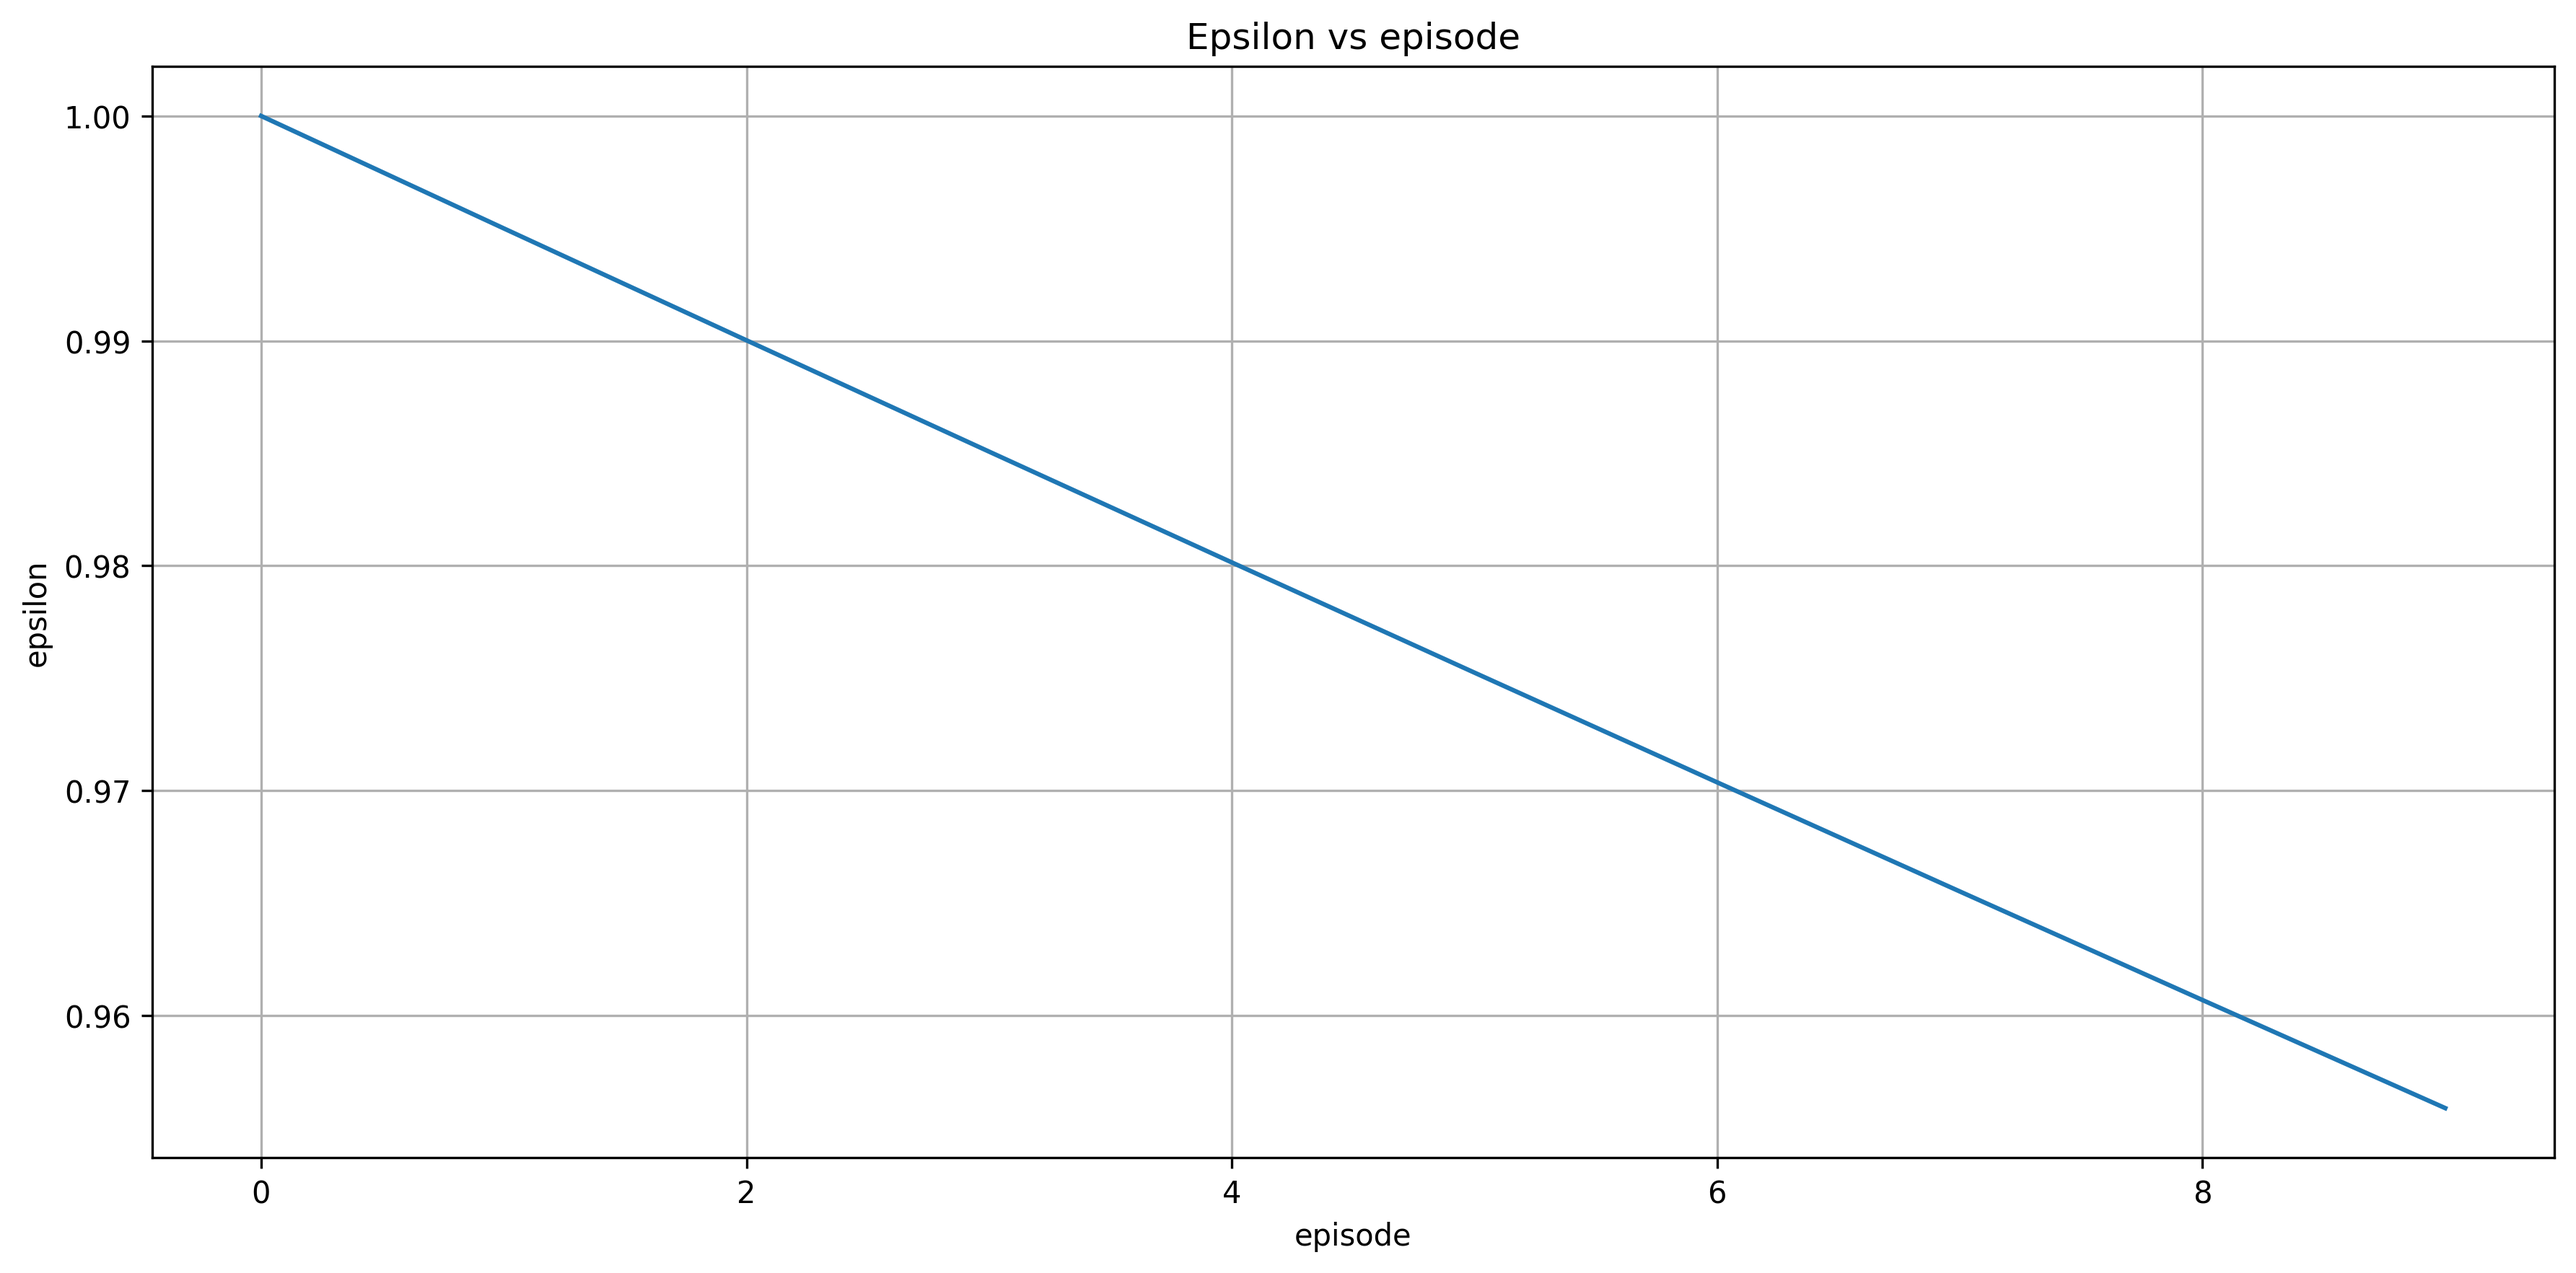
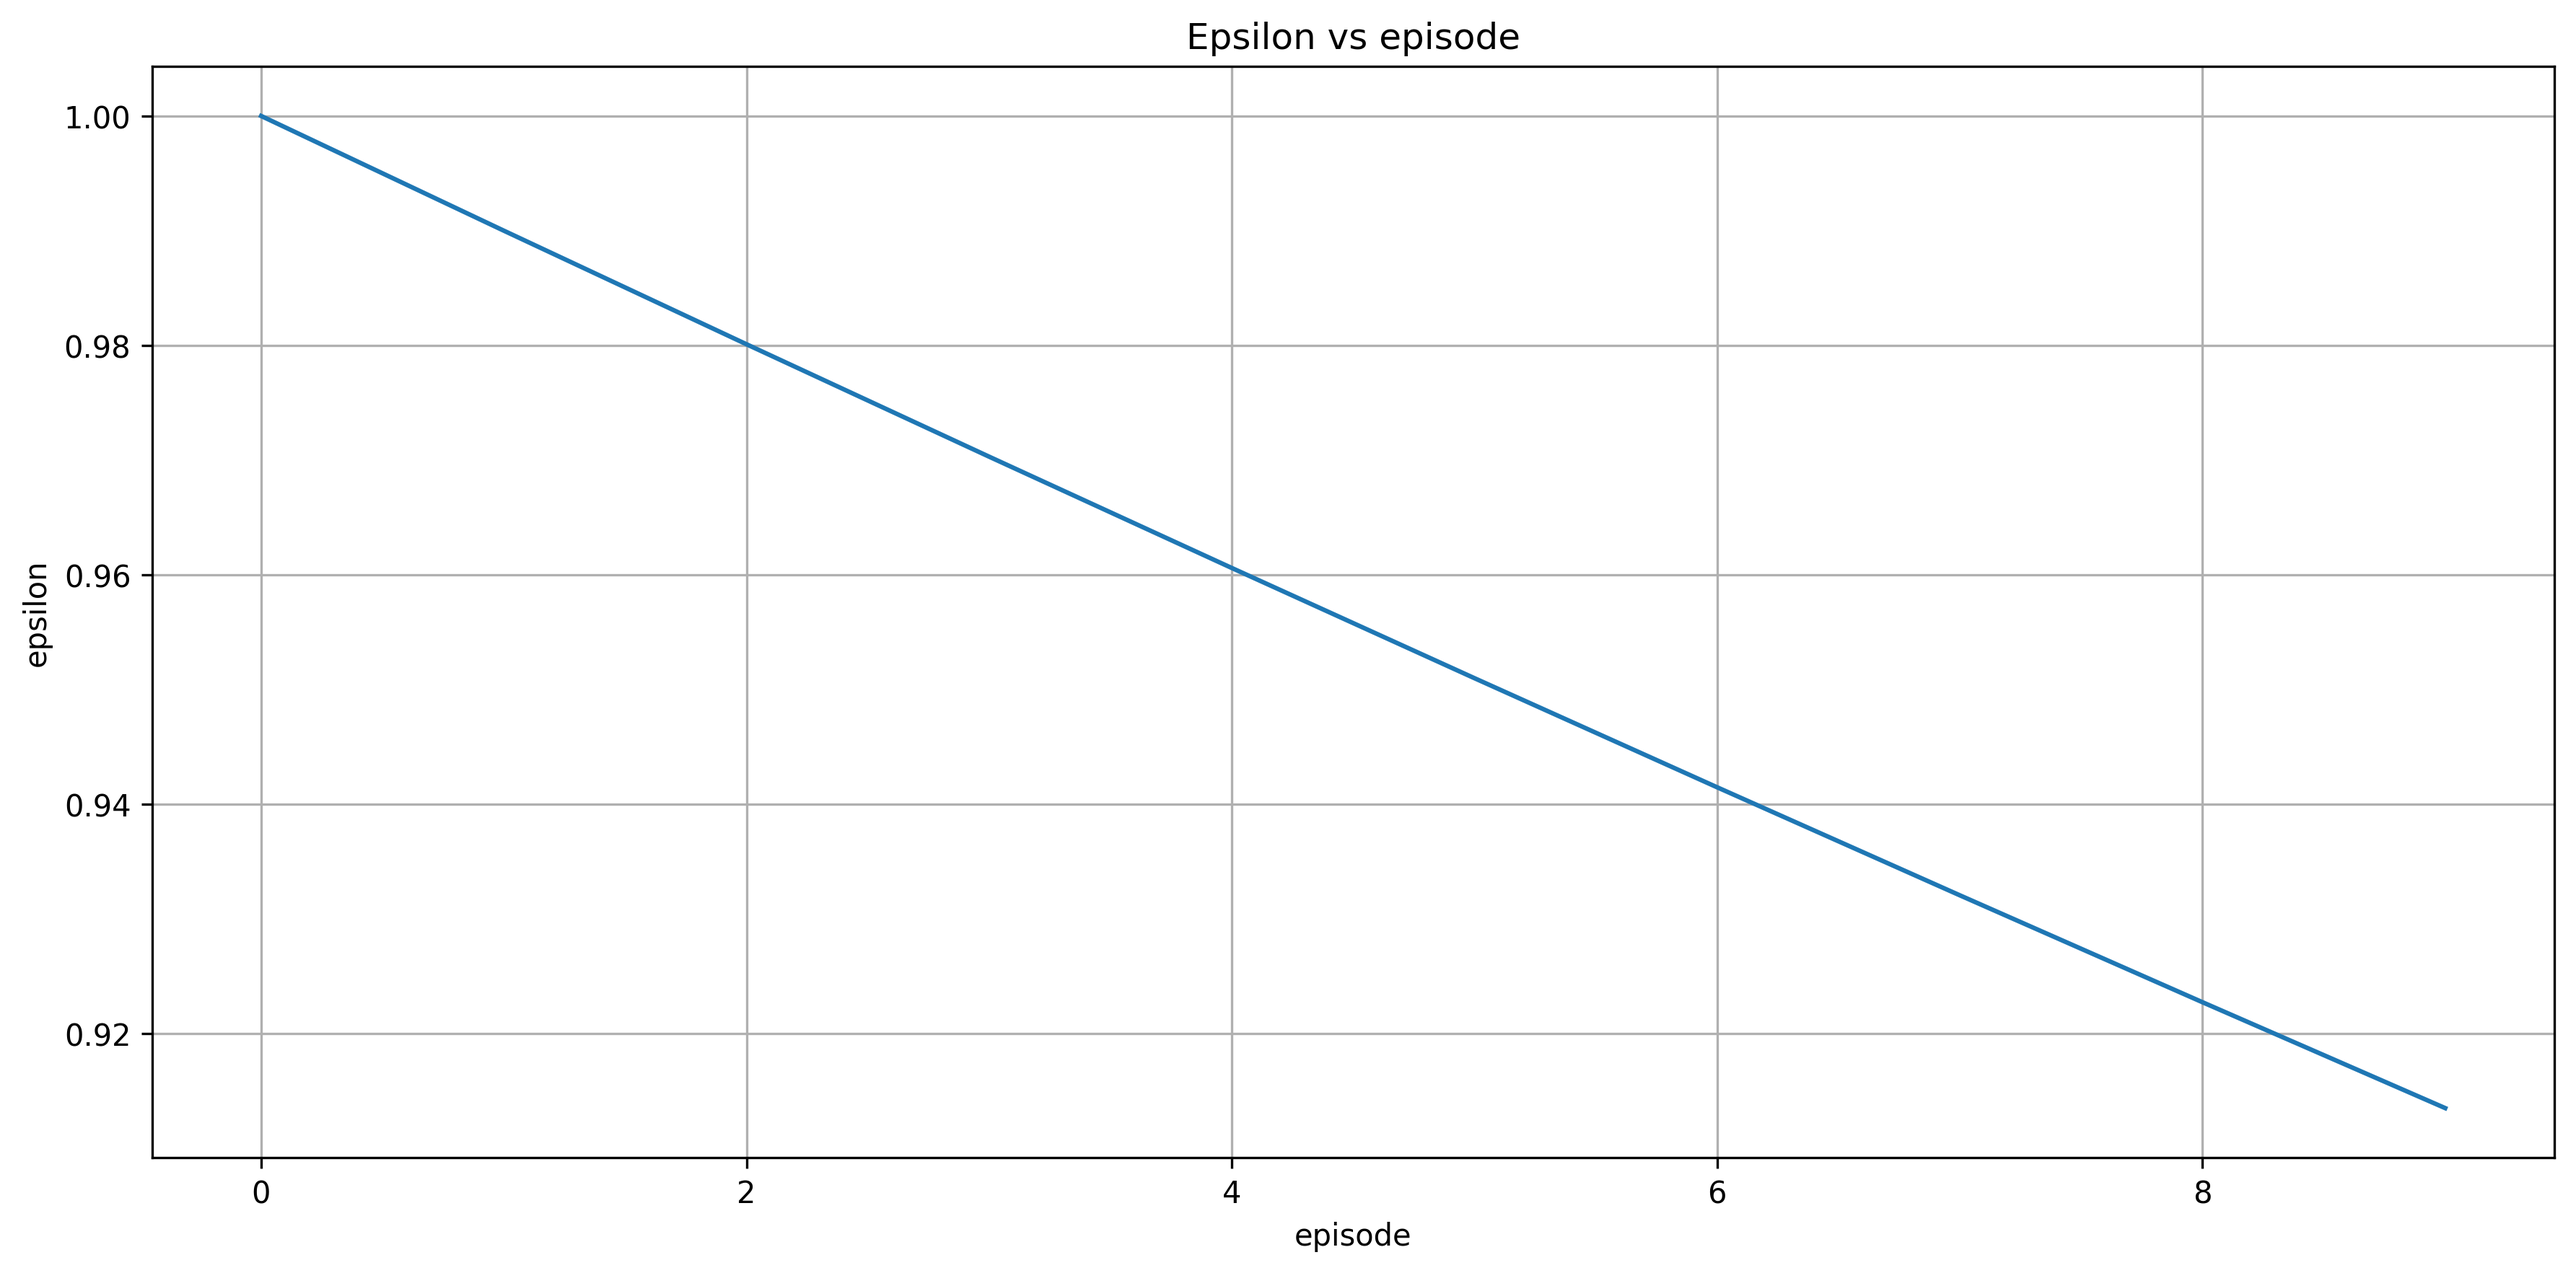
Emissions fini Mean wait update Can run on GPU

diff --git a/simauto/test.py b/simauto/test.py
@@ -11,12 +11,12 @@ def state_tensor(obs):
         obs["pressure"].astype(np.float32),
         obs["nearest"].astype(np.float32),
         #np.array(obs["lights"], dtype=np.float32)
-    ]))
+    ])).to(device)
 
 class DQNAgent:
     def __init__(self, input_dim, output_dim, gamma=0.99, epsilon=1.0, lr=0.001):
-        self.q_net = DeepQNetwork(input_dim, output_dim)
-        self.target_net = DeepQNetwork(input_dim, output_dim)
+        self.q_net = DeepQNetwork(input_dim, output_dim).to(device)
+        self.target_net = DeepQNetwork(input_dim, output_dim).to(device)
         self.optimizer = optim.Adam(self.q_net.parameters(), lr=lr)
         self.gamma = gamma
         self.epsilon = epsilon
@@ -38,8 +38,9 @@ class DQNAgent:
         T.save(self.q_net.state_dict(), path)
 
     def load(self, path):
-        self.q_net.load_state_dict(T.load(path))
+        self.q_net.load_state_dict(T.load(path, map_location=device))
 
+device = T.device("cuda" if T.cuda.is_available() else "cpu")
 env = gym.make("Intersection-v0", render_mode=None, step_length=6.0)
 input_dim = 4 + 4 #+ 6
 output_dim = 6
@@ -56,7 +57,7 @@ episode_epsilons = []
 episode_mean_wait = []
 episode_emissions = []
 total_steps = 0
-n_episode = 100
+n_episode = 1000
 for episode in range(n_episode):
     obs, _ = env.reset()
     state = state_tensor(obs)
@@ -77,17 +78,18 @@ for episode in range(n_episode):
         # Train from buffer
         if len(agent.buffer.buffer) > BATCH_SIZE:
             states, actions, rewards, next_states, dones = agent.buffer.sample(BATCH_SIZE)
-            states = T.FloatTensor(states)
-            next_states = T.FloatTensor(next_states)
+            states = T.FloatTensor(states).to(device)
+            next_states = T.FloatTensor(next_states).to(device)
 
             # DQN Loss Calculation
             q_values = agent.q_net(states)
             next_q_values = agent.target_net(next_states).max(1)[0].detach()
-            rewards_tensor = T.FloatTensor(rewards)
+            rewards_tensor = T.FloatTensor(rewards).to(device)
             dones_tensor = T.FloatTensor(dones)
             targets = rewards_tensor + (1 - dones_tensor) * agent.gamma * next_q_values
+            actions_tensor = T.LongTensor(actions).to(device)
 
-            loss = agent.q_net.loss(q_values.gather(1, T.LongTensor(actions).unsqueeze(1)), targets.unsqueeze(1))
+            loss = agent.q_net.loss(q_values.gather(1, actions_tensor.unsqueeze(1)), targets.unsqueeze(1))
             agent.optimizer.zero_grad()
             loss.backward()
             agent.optimizer.step()
@@ -99,16 +101,15 @@ for episode in range(n_episode):
 
 
     #Calculate mean wait for the episode
-    # sum = 0
-    # mean_waits = env.unwrapped.mean_waits
-    # for w in mean_waits:
-    #     sum += w
-    # mean_wait = sum/len(mean_waits)
-    # mean_wait = mean_waits[-1]
+    sum = 0
+    mean_waits = env.unwrapped.mean_waits
+    for w in mean_waits:
+        sum += w
+    mean_wait = sum/len(mean_waits)
 
     episode_rewards.append(total_reward)
     episode_epsilons.append(agent.epsilon)
-    # episode_mean_wait.append(mean_wait)
+    episode_mean_wait.append(mean_wait)
     episode_emissions.append(env.unwrapped.sim.emissions)
     print(f"Episode {episode}, Reward: {total_reward:.2f}, Epsilon: {agent.epsilon:.2f}")
     agent.epsilon = max(MIN_EPSILON, agent.epsilon * EPSILON_DECAY)
@@ -120,6 +121,6 @@ agent.save(path)
 episodes = [[i] for i in range(n_episode)]
 plot_graph(episodes, episode_rewards, "reward-episode.png", "Reward vs episode", "episode", "reward")
 plot_graph(episodes, episode_epsilons, "epsilon-episode.png", "Epsilon vs episode", "episode", "epsilon")
-# plot_graph(episodes, episode_mean_wait, "mean_wait-episode.png", "Mean wait vs episode", "episode", "mean wait")
+plot_graph(episodes, episode_mean_wait, "mean_wait-episode.png", "Mean wait vs episode", "episode", "mean wait")
 plot_graph(episodes, episode_emissions, "emissions-episode.png", "Emissions vs episode", "episode", "emissions")
 env.close()

diff --git a/simauto/sim.py b/simauto/sim.py
@@ -395,6 +395,7 @@ class CarRecord:
 
     def step(self, obstacle: Optional[tuple[float, float]], delta_time: float):
         previous_speed = self.speed
+        previous_dist = self.distance
 
         self.distance += self.car.step(obstacle, delta_time)
 
@@ -403,14 +404,24 @@ class CarRecord:
         else:
             self.wait_time = max(0, self.wait_time - delta_time * 2)
 
-        if self.speed > previous_speed:
-            #  Données d'emissions prisent à 50 km/h
-            ratio = self.car.target_speed / 13.88
+        if -0.1 < self.speed < 0.1 or self.speed < previous_speed:
+            # Fuel consumption idle = 0.6 L/h                                           : Source Reddit -> on va dire qu'on l'a mesuré nous même
+            self.emissions += 0.6/60/60*delta_time
+                         #conso/min/sec * elapsed time
+        elif self.speed == previous_speed:
+            # Fuel consumption for constant 30 kph: 5.9 L/100 km
+            delta_dist = abs(self.distance-previous_dist)
+            self.emissions += (5.9/100/1000*delta_dist)
+                           #conso/km/m * distance
+        elif self.speed > previous_speed:
+            # Fuel consumption for acceleration from 0->30 kph in 10 sec. = 0.014 L
+            self.emissions += 0.014/10 * delta_time
+                            #conso/10 sec * elapsed time
 
-            self.emissions += (0.0064 * ratio) * (self.speed - previous_speed) 
-        else:
-            self.emissions += (0.0016 + 0.0006 * self.speed) * delta_time 
-
+        # Notes for emissions:
+        # Fuel consumption for constant 30 kph: 5.9 L/100 km                        : Source article
+        # Fuel consumption for acceleration from 0->30 kph in 10 sec. = 0.014 L     : Source article
+        # Fuel consumption idle = 0.6 L/h                                           : Source Reddit -> on va dire qu'on l'a mesuré nous même
 
 
 @dataclass

diff --git a/simauto/intersection.py b/simauto/intersection.py
@@ -179,6 +179,7 @@ class IntersectionEnv(gym.Env):
         self.elapsed_time = 0
         self.truncated = False
         self._passed_cars = 0
+        self.mean_waits = []
 
         # trouver avec les trucs de sim.py ->
 
@@ -189,6 +190,7 @@ class IntersectionEnv(gym.Env):
 
         return observation, info
 
+        '''
     def _compute_reward(self):
         if not self.sim.cars:
             return 0.
@@ -225,6 +227,7 @@ class IntersectionEnv(gym.Env):
         self.mean_waits.append(mean_wait)
 
         return reward
+        '''
 
     def _compute_reward(self):
         if not self.sim.cars:
@@ -247,10 +250,11 @@ class IntersectionEnv(gym.Env):
             + emergency_penalty
         )
 
+        self.mean_waits.append(total_wait/len(wait_times))
+
         return reward
 
     def step(self, action):
-        #print(self._passed_cars)
         assert self.action_space.contains(
                 action
         ), f"{action!r} ({type(action)}) invalid"

diff --git a/simauto/Tools.py b/simauto/Tools.py
@@ -1,8 +1,5 @@
 import matplotlib.pyplot as plt
 
-# Define the file path for the re-uploaded file
-episodes = []
-rewards = []
 
 def plot_graph(x, y, save_path, title="Title", x_lab="x", y_lab="y"):
     plt.figure(figsize=(12, 6))
